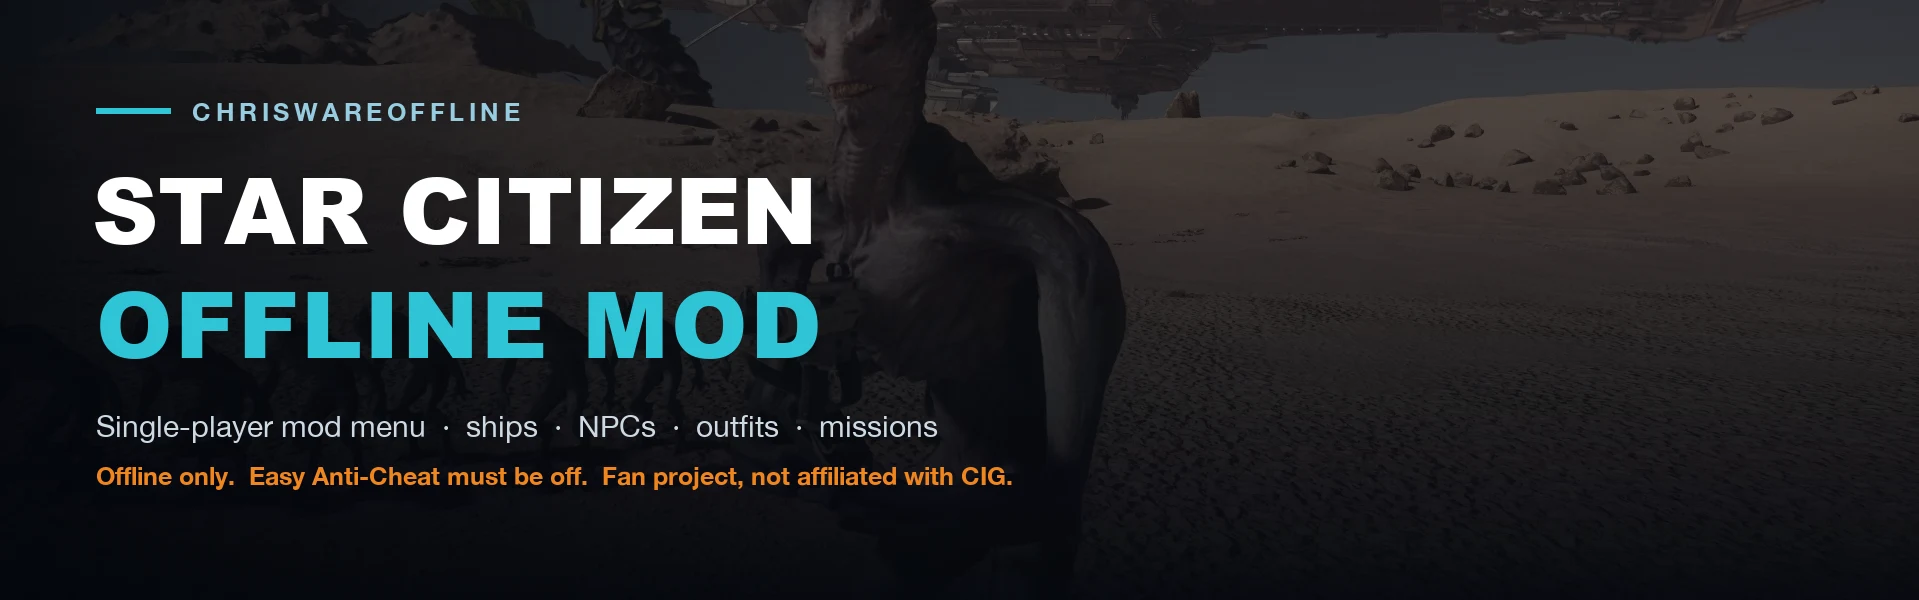
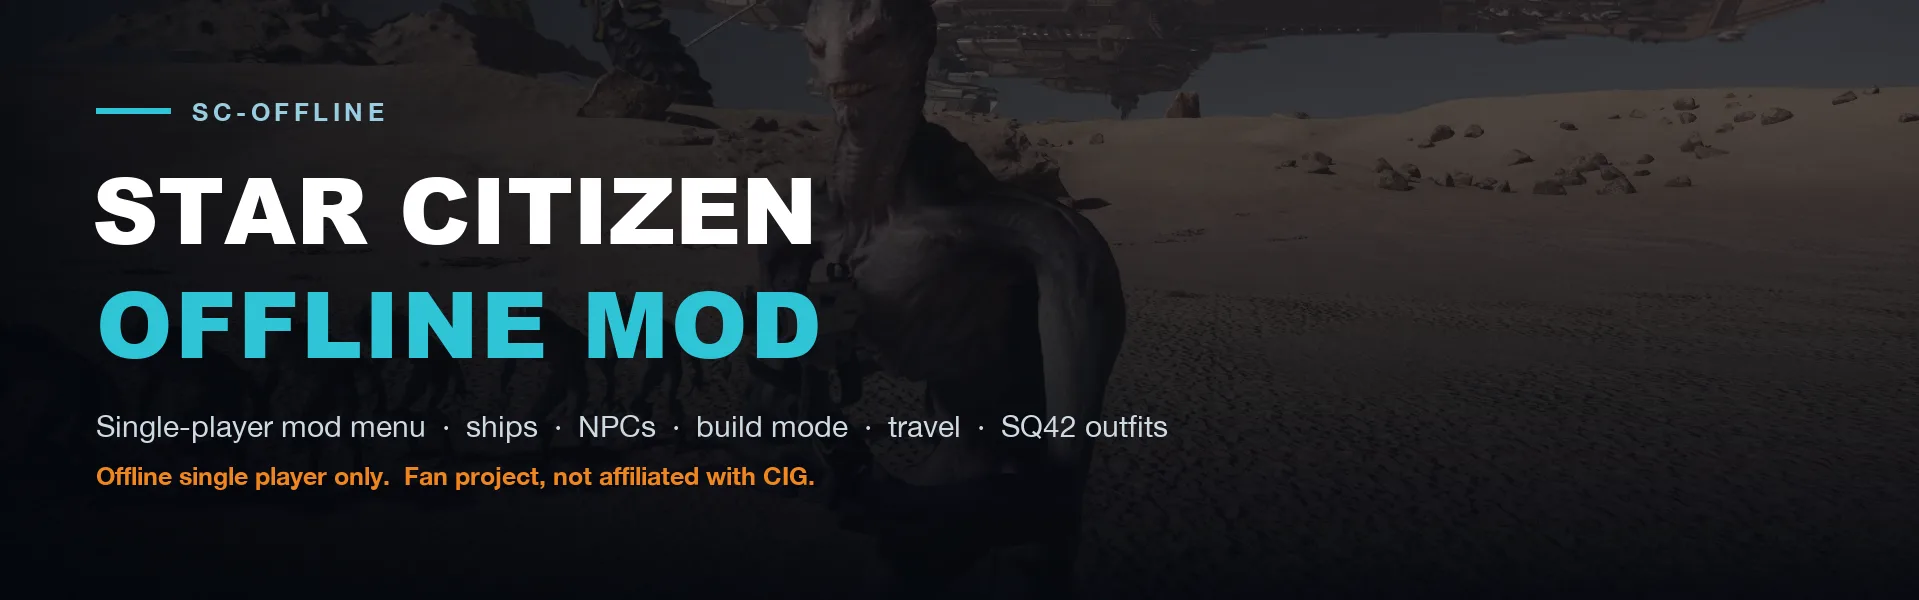
README: visual refresh (header, badges, quick start, tables, collapsible troubleshooting) (#10)
* README: centered header, badges, quick start, tables and collapsible troubleshooting; banner reads sc-offline / Star Citizen Offline Mod

* README: requirements table header, neutral screenshot caption

---------

Changed region(s): [[0.3689, 0.69, 0.6149, 0.75], [0.0922, 0.78, 0.5227, 0.81], [0.0922, 0.15, 0.2767, 0.21]]

diff --git a/README.md b/README.md
@@ -1,60 +1,95 @@
-# sc-offline — Star Citizen offline mod
+<div align="center">
 
-<img src="images/banner.webp" alt="Star Citizen Offline Mod — offline single-player mod menu for Star Citizen" width="100%">
+<img src="images/banner.webp" alt="sc-offline — Star Citizen offline mod: single-player mod menu with ships, NPCs, build mode, travel and Squadron 42 outfits" width="100%">
 
-An offline single-player mod menu for **Star Citizen**. You can spawn ships, NPCs and buildings, teleport around the star systems, and wear Squadron 42 outfits, all from one in-game menu.
+# sc-offline
+
+**An offline, single-player mod menu for Star Citizen.**<br>
+Spawn ships, NPCs and buildings, travel the star systems and wear Squadron 42 outfits, all from one in-game menu.
+
+[![Latest release](https://img.shields.io/github/v/release/scubamount/sc-offline?style=flat-square&label=release&color=2ec4d6)](https://github.com/scubamount/sc-offline/releases/latest)
+[![Build](https://img.shields.io/github/actions/workflow/status/scubamount/sc-offline/build.yml?branch=main&style=flat-square&label=build)](https://github.com/scubamount/sc-offline/actions/workflows/build.yml)
+![Platform](https://img.shields.io/badge/platform-Windows%20%7C%20Linux%20(Wine%2C%20experimental)-555?style=flat-square)
+[![License: GPL-3.0](https://img.shields.io/badge/license-GPL--3.0-f0851f?style=flat-square)](LICENSE)
+
+[**Download**](https://github.com/scubamount/sc-offline/releases/latest) ·
+[Setup](#setup) ·
+[Play](#play) ·
+[Troubleshooting](#troubleshooting) ·
+[Go back online](#go-back-online) ·
+[Docs](#more-docs)
+
+</div>
 
 > [!WARNING]
 > This mod may get your account banned. Use it at your own risk, and **only offline, in single player**.
 
 > [!NOTE]
-> Builds from this repository are compiled and checked by CI, but **nobody has played them in game yet**. That includes the current Latest release. If something breaks, see [Troubleshooting](#troubleshooting).
+> Builds from this repository are compiled and checked by CI, but **nobody has played them in game yet**. That includes the current Latest release. If something breaks, see [Troubleshooting](#troubleshooting) and [report it](https://github.com/scubamount/sc-offline/issues).
 
-![A Vanduul holding a gun on a desert planet, with a line of Vanduul and a large ship behind it](images/screenshot.webp)
+## Quick start
+
+1. **Download** `sc-offline-<version>.zip` from the [latest release](https://github.com/scubamount/sc-offline/releases/latest) and extract it anywhere.
+2. **Close** the RSI Launcher and the game.
+3. **Run** `sc-offline.exe` and say yes to the administrator prompt.
+4. **Press `M`** once the game has loaded you in.
+
+The launcher puts the mod into your game folder while you play and takes it out again afterwards, along with every change it made to your PC.
 
 ## What you need
 
-- A copy of Star Citizen that you own.
-- Windows. Linux through Wine is experimental and untested; see [docs/linux.md](docs/linux.md).
-- Administrator rights: Windows asks once each time you play (see [What the launcher changes](#what-the-launcher-changes)).
+| Requirement | Details |
+| --- | --- |
+| **Game** | A copy of Star Citizen that you own |
+| **OS** | Windows. Linux through Wine is experimental and untested; see [docs/linux.md](docs/linux.md) |
+| **Rights** | Administrator: Windows asks once each time you play |
+| **Disk** | About 1.4 MB for the zip |
 
 ## Setup
 
 ### 1. Download the mod
 
-1. Download `sc-offline-<version>.zip` from the newest release on [Releases](https://github.com/scubamount/sc-offline/releases). It's about 1.4 MB.
+1. Download `sc-offline-<version>.zip` from the newest release on [Releases](https://github.com/scubamount/sc-offline/releases).
 2. Right-click the zip, choose **Extract All**, and put the folder anywhere, for example your Desktop. Keep all the files together.
 
-Don't copy anything into your game folder. The launcher puts the mod there when you play and takes it out again afterwards.
+Don't copy anything into your game folder yourself.
 
 ### 2. What the launcher changes
 
 The mod can't run while Easy Anti-Cheat (EAC) is on, so each time you play, the launcher's helper:
 
-1. adds a Windows Firewall rule that blocks `StarCitizen.exe`, so the game has no network while modded;
-2. adds `127.0.0.1 modules-cdn.eac-prod.on.epicgames.com` to your hosts file, so the RSI Launcher doesn't download EAC again;
-3. renames `EasyAntiCheat_EOS.exe` to `EasyAntiCheat_EOS.exe.bak`.
+| Step | Change | Why |
+| --- | --- | --- |
+| 1 | Adds a Windows Firewall rule that blocks `StarCitizen.exe` | The game has no network while modded |
+| 2 | Adds `127.0.0.1 modules-cdn.eac-prod.on.epicgames.com` to your hosts file | The RSI Launcher doesn't download EAC again |
+| 3 | Renames `EasyAntiCheat_EOS.exe` to `EasyAntiCheat_EOS.exe.bak` | EAC doesn't start |
 
-When the game closes it undoes exactly what it changed and prints what it undid. Anything you set up yourself is left alone. If the game crashes or the PC shuts down, the next run of `sc-offline.exe` lists what is still in place and offers to undo it. Each step can be turned off in `sc-offline.ini`; see [docs/launcher.md](docs/launcher.md#pc-changes).
+When the game closes, it undoes exactly what it changed and prints what it undid. Anything you set up yourself is left alone. If the game crashes or the PC shuts down, the next run of `sc-offline.exe` lists what is still in place and offers to undo it. Each step can be turned off in `sc-offline.ini`; see [docs/launcher.md](docs/launcher.md#pc-changes).
 
-The firewall rule stops the game reaching the network. It doesn't remove other traces on your PC, such as logs, so use the mod at your own risk.
+> [!IMPORTANT]
+> The firewall rule stops the game reaching the network. It doesn't remove other traces on your PC, such as logs, so use the mod at your own risk.
 
 ## Play
 
 1. Close the RSI Launcher and the game.
 2. Double-click `sc-offline.exe`. It prints the game folder it found. Windows asks for administrator rights; say yes. That prompt is for the small helper that makes the changes above and copies the mod in and out; the game itself never runs as administrator.
-3. Once the game has loaded you in, press **M** to open the menu.
+3. Once the game has loaded you in, press <kbd>M</kbd> to open the menu.
 
 | Key | Action |
 | --- | --- |
-| `M` | Open or close the menu |
-| `F6` | Turn build mode on or off |
-| `F7` | Save your position |
-| `F8` | Teleport back to the saved position |
+| <kbd>M</kbd> | Open or close the menu |
+| <kbd>F6</kbd> | Turn build mode on or off |
+| <kbd>F7</kbd> | Save your position |
+| <kbd>F8</kbd> | Teleport back to the saved position |
 
 The launcher searches every drive for `Roberts Space Industries\StarCitizen`. If it can't find your install, set `game =` in `sc-offline.ini`. The same file also chooses your start ship, the boot map and the channel (`LIVE`, `PTU`, and so on); see [docs/launcher.md](docs/launcher.md).
 
 What's in each menu tab: [docs/features.md](docs/features.md).
+
+<p align="center">
+  <img src="images/screenshot.webp" alt="A Vanduul holding a gun on a desert planet, with a line of Vanduul and a large ship behind it" width="85%">
+  <br><sub>In-game: spawned Vanduul and a ship.</sub>
+</p>
 
 ## Update
 
@@ -65,14 +100,49 @@ What's in each menu tab: [docs/features.md](docs/features.md).
 
 ## Troubleshooting
 
-- **The menu doesn't open:** check that you started the game with `sc-offline.exe`, not the RSI Launcher.
-- **The launcher can't find the game:** set `game =` in `sc-offline.ini`.
-- **Is everything set up?** Run `sc-offline.exe status` from a terminal. It checks the DLL, the game version, Easy Anti-Cheat and the hosts file, and changes nothing.
-- **The launcher stops with "Easy Anti-Cheat is active":** set `eac_rename = on` in `sc-offline.ini`, or rename the file yourself.
-- **The launcher couldn't add the firewall rule or edit hosts:** say yes to the administrator prompt; some antivirus tools lock the hosts file.
-- **The game crashed or the PC shut down mid-game:** run `sc-offline.exe uninstall` before you play online. It removes the mod and undoes the PC changes.
-- **A game update broke the mod:** that's expected until the mod is updated for the new game version.
-- **Reporting a bug:** send `data/launcher.log`, `data/mod.log`, and the game's `Game.log`.
+<details>
+<summary><b>The menu doesn't open</b></summary>
+
+Check that you started the game with `sc-offline.exe`, not the RSI Launcher.
+</details>
+
+<details>
+<summary><b>The launcher can't find the game</b></summary>
+
+Set `game =` in `sc-offline.ini`.
+</details>
+
+<details>
+<summary><b>Is everything set up?</b></summary>
+
+Run `sc-offline.exe status` from a terminal. It checks the DLL, the game version, Easy Anti-Cheat and the hosts file, and changes nothing.
+</details>
+
+<details>
+<summary><b>The launcher stops with "Easy Anti-Cheat is active"</b></summary>
+
+Set `eac_rename = on` in `sc-offline.ini`, or rename the file yourself.
+</details>
+
+<details>
+<summary><b>The launcher couldn't add the firewall rule or edit hosts</b></summary>
+
+Say yes to the administrator prompt; some antivirus tools lock the hosts file.
+</details>
+
+<details>
+<summary><b>The game crashed or the PC shut down mid-game</b></summary>
+
+Run `sc-offline.exe uninstall` before you play online. It removes the mod and undoes the PC changes.
+</details>
+
+<details>
+<summary><b>A game update broke the mod</b></summary>
+
+That's expected until the mod is updated for the new game version.
+</details>
+
+**Reporting a bug:** open an [Issue](https://github.com/scubamount/sc-offline/issues) and attach `data/launcher.log`, `data/mod.log`, and the game's `Game.log`.
 
 ## Go back online
 
@@ -84,12 +154,12 @@ What's in each menu tab: [docs/features.md](docs/features.md).
 
 | Doc | For |
 | --- | --- |
-| [docs/features.md](docs/features.md) | Every menu tab, including Squadron 42 |
-| [docs/launcher.md](docs/launcher.md) | `sc-offline.exe`, `sc-offline.ini`, and what the launcher changes on disk |
-| [docs/data-files.md](docs/data-files.md) | The text files in `data/` and the environment variables |
-| [docs/linux.md](docs/linux.md) | Running under Wine (experimental) |
-| [docs/build.md](docs/build.md) | Building from source, checks, CI and releases |
-| [CHANGELOG.md](CHANGELOG.md) | What changed in each release |
+| [Features](docs/features.md) | Every menu tab, including Squadron 42 |
+| [Launcher](docs/launcher.md) | `sc-offline.exe`, `sc-offline.ini`, and what the launcher changes on disk |
+| [Data files](docs/data-files.md) | The text files in `data/` and the environment variables |
+| [Linux](docs/linux.md) | Running under Wine (experimental) |
+| [Build](docs/build.md) | Building from source, checks, CI and releases |
+| [Changelog](CHANGELOG.md) | What changed in each release |
 
 ## Credits
 
@@ -97,4 +167,4 @@ sc-offline is **based on ChrisWareOffline 0.9.0-rc1** by Chris Ware and cloudyyr
 
 This repository adds the launcher, CI and releases, the Squadron 42 tab and later fixes. It is licensed under GPL-3.0; see [LICENSE](LICENSE). Report bugs on [Issues](https://github.com/scubamount/sc-offline/issues).
 
-AI was used in a limited way to make this project. It's a fan project, not made by or affiliated with Cloud Imperium Games or Roberts Space Industries. Star Citizen is a trademark of Cloud Imperium Games.
+<sub>AI was used in a limited way to make this project. It's a fan project, not made by or affiliated with Cloud Imperium Games or Roberts Space Industries. Star Citizen is a trademark of Cloud Imperium Games.</sub>
